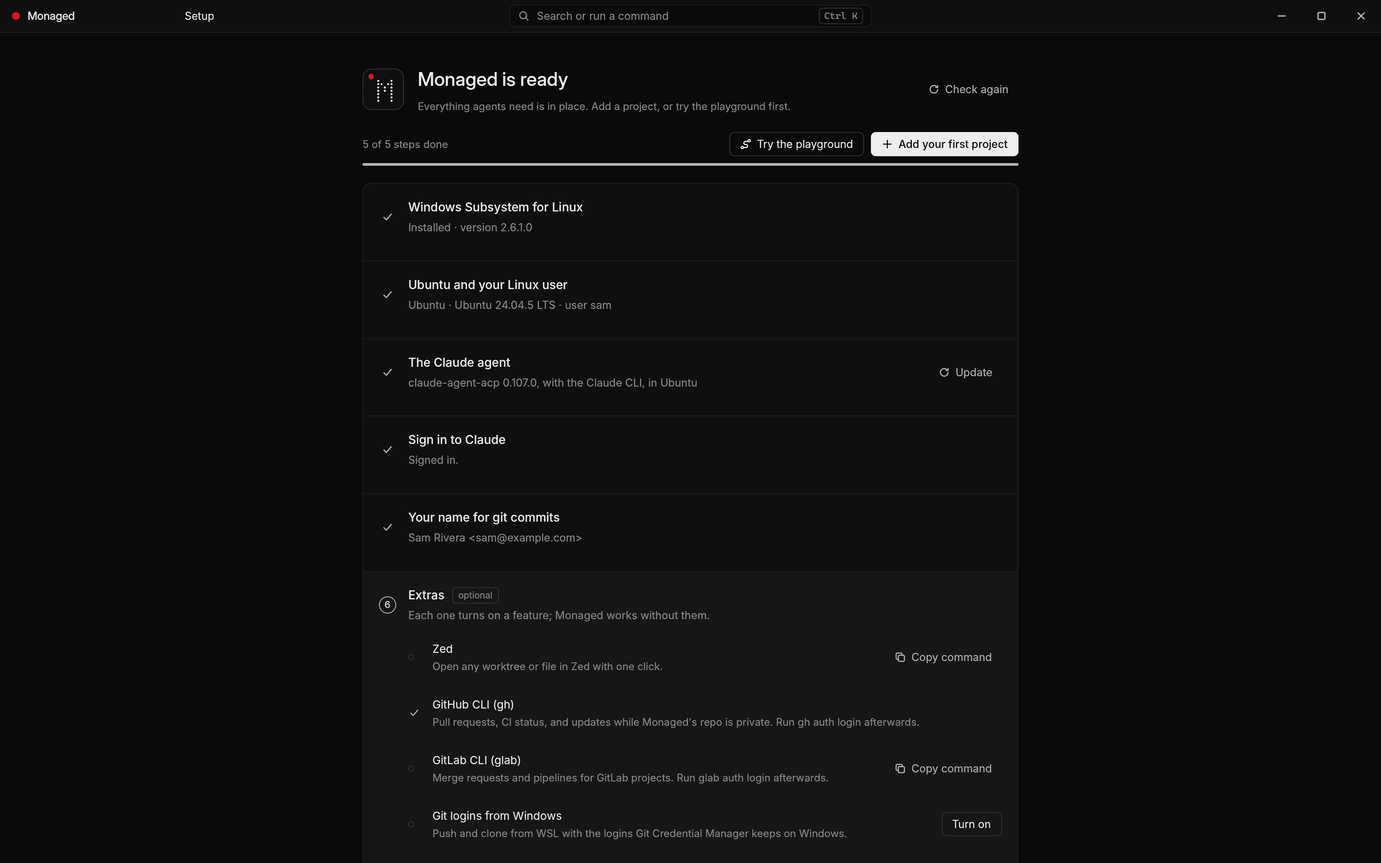
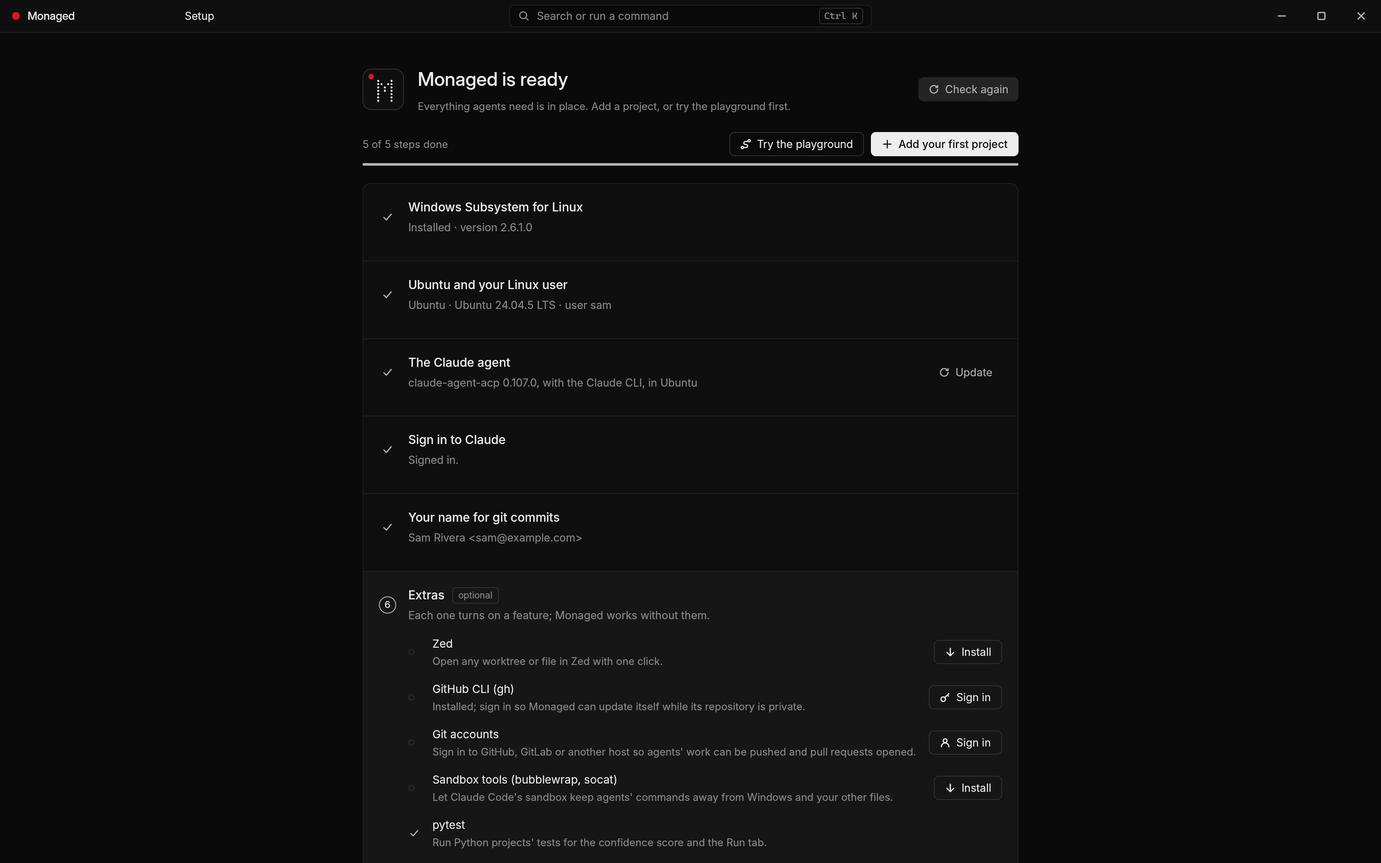
Docs and site for 0.4.0; the guide's extras keep their layout in every state
- Getting started, troubleshooting, the user guide (Git accounts, the fuller
  Git tab) and the code map describe the in-app setup, the sign-in code box,
  the Install buttons and the new modules.
- CHANGELOG and roadmap sections for 0.4.0; version mentions in the press
  kit and on the site.
- New screenshots of the setup guide: Ubuntu downloading with its size and
  speed, and the ready state with the extras' buttons.
- Extras rows are flat flex rows again: with a block wrapper their titles
  collapsed to one letter per line while the Ubuntu form was open.

Claude-Session: https://claude.ai/code/session_017q4atCXFUxg4EBPXPaHpjh

Changed region(s): [[0.3125, 0.744, 0.7188, 0.992], [0.6562, 0.062, 0.75, 0.124], [0.6562, 0.744, 0.7188, 0.775]]

diff --git a/site/index.html b/site/index.html
@@ -171,7 +171,7 @@ footer a { color: var(--text-2); }
       <a class="btn primary" href="https://github.com/Marten-Mrfc/monaged/releases/latest"><svg xmlns="http://www.w3.org/2000/svg" aria-hidden="true" viewBox="0 0 16 16" fill="none" stroke="currentColor" stroke-width="1.4" stroke-linecap="round" stroke-linejoin="round"><path d="M8 3v10M3.5 8.5 8 13l4.5-4.5"/></svg>Download for Windows</a>
       <a class="btn" href="https://github.com/Marten-Mrfc/monaged"><svg xmlns="http://www.w3.org/2000/svg" aria-hidden="true" viewBox="0 0 16 16" fill="none" stroke="currentColor" stroke-width="1.4" stroke-linecap="round" stroke-linejoin="round"><path d="M9 2.5h4.5V7M13.5 2.5 7.5 8.5M12 9.5v3a1 1 0 0 1-1 1H3.5a1 1 0 0 1-1-1V5a1 1 0 0 1 1-1h3"/></svg>View on GitHub</a>
     </div>
-    <p class="fine">Free · Version 0.3.0 · Windows 10 and 11 (x64) · Uses your own Claude account</p>
+    <p class="fine">Free · Version 0.4.0 · Windows 10 and 11 (x64) · Uses your own Claude account</p>
     <picture>
       <source srcset="img/light.png" media="(prefers-color-scheme: light)">
       <img class="shot" src="img/pipeline-build.png" alt="Monaged's window: a project tree with seven agents, a builder's conversation with its tool calls, and the pipeline at the build stage." width="1600" height="1000">
@@ -329,7 +329,7 @@ footer a { color: var(--text-2); }
     <h2>Built to be read at a glance.</h2>
     <p class="sub">Monochrome, with one red that only ever means "needs you". Hairlines instead of boxes, real data in mono, and nothing that moves without a reason.</p>
     <div class="gallery">
-      <figure><img src="img/setup.png" alt="The setup guide on a PC without WSL, with an Install WSL button." width="1600" height="1000" loading="lazy"><figcaption>The setup guide checks first, then installs what's missing, asking each time.</figcaption></figure>
+      <figure><img src="img/setup.png" alt="The setup guide installing Ubuntu: the download with its size and speed, then installing it in WSL, the first start and creating your Linux user." width="1600" height="1000" loading="lazy"><figcaption>The setup guide installs what's missing right in the window, with real progress.</figcaption></figure>
       <figure><img src="img/pipeline-decide.png" alt="The pipeline waiting at the decide gate, with the research report and both verifiers' verdicts." width="1600" height="1000" loading="lazy"><figcaption>Two verifiers check the research before anything gets built.</figcaption></figure>
       <figure><img src="img/palette.png" alt="The command palette listing actions for the current subproject." width="1600" height="1000" loading="lazy"><figcaption>Ctrl K jumps anywhere and runs anything.</figcaption></figure>
       <figure><img src="img/pipeline-done.png" alt="A finished pipeline merged into develop, all eight stages checked." width="1600" height="1000" loading="lazy"><figcaption>Finished work merges into develop when the rules and the score allow it.</figcaption></figure>

diff --git a/src/onboarding.rs b/src/onboarding.rs
@@ -1792,11 +1792,12 @@ impl Monaged {
             StepId::Extras => {
                 let wsl_ready = self.step_done(StepId::Distro);
                 let running = self.setup.job.clone();
-                // One extra: a row, with what it's doing (progress, a sign-in) as a
-                // sibling under it. Keep this shape: a row nested in a column, or a
-                // flex row with vertical padding, made the layout overestimate the
-                // list's height when text wrapped, which pushed the guide's own
-                // buttons out of reach.
+                // One extra: a flat flex row, with what it's doing (progress, a
+                // sign-in) as a sibling under it. Keep this shape. A row nested in a
+                // column, a row with vertical padding, or a text column with
+                // `min_w(0)` made the layout misjudge the list's height (pushing the
+                // guide's own buttons out of reach), and a block `div()` around the
+                // row collapsed its text to one letter per line.
                 let row = |ok: bool, title: &'static str, detail: &'static str, fix: Option<AnyElement>, below: Option<AnyElement>| -> Vec<AnyElement> {
                     let line = div()
                         .flex()
@@ -1812,14 +1813,13 @@ impl Monaged {
                         .child(
                             div()
                                 .flex_1()
-                                .min_w(px(0.))
                                 .flex()
                                 .flex_col()
                                 .child(div().text_size(px(13.)).text_color(rgb(theme::text())).child(title))
                                 .child(div().text_size(px(12.)).text_color(rgb(theme::text_3())).child(detail)),
                         )
-                        .children(fix);
-                    let line = div().child(line).into_any_element();
+                        .children(fix)
+                        .into_any_element();
                     std::iter::once(line).chain(below.map(|b| div().pl(px(28.)).pb(px(6.)).flex().flex_col().child(b).into_any_element())).collect()
                 };
                 // The Install button, or this extra's progress while it installs.

diff --git a/docs/troubleshooting.md b/docs/troubleshooting.md
@@ -12,11 +12,13 @@ Monaged writes a log to `%APPDATA%\Monaged\monaged.log` (the previous run's is `
 
 ## WSL
 
-**Install WSL does nothing, or says permission was declined.** It needs one administrator prompt (UAC). If your account isn't an administrator, ask someone who is to run `wsl --install --no-distribution` in an administrator terminal, then click **Check again**.
+**Install WSL does nothing, or says permission was declined.** It needs one administrator prompt (UAC). If your account isn't an administrator, ask someone who is to run `wsl --install --no-distribution` in an administrator terminal, then click **Check again**. What WSL's installer said is in `%LOCALAPPDATA%\Monaged\wsl-install.log`.
 
 **Ubuntu installed but "didn't start".** Right after installing WSL, Windows usually needs a restart. If it still fails after one, virtualization is probably off: turn on *Intel VT-x / AMD-V* (often called *SVM* or *Virtualization Technology*) in your PC's BIOS or UEFI settings. In Windows, *Virtual Machine Platform* must be on (Turn Windows features on or off).
 
-**I closed the Ubuntu window before creating my user.** Click **Open Ubuntu** in the setup guide; it asks again. If you'd rather keep using root, choose **Keep using root** (not recommended).
+**Installing Ubuntu stopped halfway.** The guide shows the step it stopped at and why; click **Install Ubuntu** again. A finished download is kept in `%LOCALAPPDATA%\Monaged\downloads` and reused (it's checked again first), and deleted once Ubuntu is installed. The download comes from the address in WSL's own list of distributions (`raw.githubusercontent.com` and `releases.ubuntu.com`); a proxy that blocks those stops it.
+
+**My distro only has root.** The setup guide offers the same username and password form; **Create my user** makes the user, adds it to the usual groups (sudo among them) and makes it the default. If you'd rather keep using root, choose **Keep using root** (not recommended).
 
 **I use another distro.** The setup guide lists the distros you have; click one to use it. Monaged remembers it. You can also start Monaged with `--distro <name>`.
 
@@ -25,24 +27,30 @@ Monaged writes a log to `%APPDATA%\Monaged\monaged.log` (the previous run's is `
 **"Can't reach Claude inside WSL."** The bar at the top has the reason; **Copy details** puts the whole error on the clipboard. Common causes:
 
 - *The agent isn't installed*: open the setup guide and click **Install the Claude agent**.
-- *curl is missing in WSL*: open your distro and run `sudo apt update && sudo apt install -y curl`.
+- *curl is missing in WSL*: the setup guide's agent step has **Install curl and tar**.
 - *GitHub can't be reached from WSL* (a proxy or firewall): download `claude-agent-acp-linux-x64.tar.gz` from the [claude-agent-acp releases](https://github.com/agentclientprotocol/claude-agent-acp/releases) yourself and unpack it into `~/.local/share/claude-agent-acp/<version>`, then point `~/.local/share/claude-agent-acp/current` at that folder.
 
-**"Claude isn't signed in."** Click **Sign in** in the bar (or in the setup guide), finish in the browser, then **Reconnect**. In a terminal it's: `wsl -- ~/.local/share/claude-agent-acp/current/claude auth login`.
+**"Claude isn't signed in."** Click **Sign in** in the bar (or the health check): the setup guide opens at its sign-in step and Claude's page opens in your browser. Sign in there, copy the code the page shows, paste it into the guide and press Enter.
+
+- *The page didn't open*: click **Open the page** (or **Copy link** and paste it into a browser).
+- *"That's only part of the code"*: the code has two halves joined by `#`; use the page's copy button so you get all of it.
+- *It says the sign-in stopped*: the code expired or was used once already; click **Sign in** again for a new one.
 
 **Agents can't commit.** Git in WSL needs a name and email: Settings → Git, or the setup guide's git step.
 
-**Pushing asks for a password, or fails.** Turn on "Use my Windows Git credentials in WSL" (Settings → Git, or the setup guide's extras); it makes git in WSL use the logins Git Credential Manager keeps on Windows.
+**Pushing asks for a password, or fails.** Sign in to the host in Settings → Git accounts (the setup guide's extras link there too). Monaged then answers git's credential questions in WSL for that host. Already using Git Credential Manager on Windows? Settings → Git accounts can make it the helper for other hosts instead.
 
 ## Reviews and tests
 
 **The confidence score says checks failed, but my tests pass.** Reviews run the test command from Project settings → Run when you set one, else the `test` in a `monaged.json` in the project root (`{"test": "..."}`), else one Monaged detects (cargo, npm, go, pytest or unittest, make). Set your real test command in one of the first two places; the Run tab uses the same one.
 
-**Open in Zed does nothing.** Install Zed and make sure `zed` works in a terminal (`winget install -e --id ZedIndustries.Zed`).
+**Open in Zed does nothing.** Install Zed (the setup guide's extras have an **Install** button) and make sure `zed` works in a terminal.
+
+**An Install button says winget isn't on this PC.** Windows programs install through winget, which comes with "App Installer" from the Microsoft Store. Install that, or use the **Website** button next to **Install** to download the program yourself.
 
 ## Updates
 
-**Check for updates says "no public release found".** While Monaged's repository is private, updates come through the GitHub CLI: install it (`winget install -e --id GitHub.cli`) and run `gh auth login`.
+**Check for updates says "no public release found".** While Monaged's repository is private, updates come through the GitHub CLI: in the setup guide's extras, **Install** it and **Sign in** (GitHub shows a one-time code to enter on its page).
 
 **"This is a development build."** Only an installed copy updates itself. Install it from Settings → Updates → Install this build, or run the setup file.
 

diff --git a/README.md b/README.md
@@ -43,11 +43,12 @@ Monaged gives each **project** its **subprojects**, each subproject its **agents
 - **Review with reasons.** Diffs, Haiku summaries and a 1–5 confidence score from your project's tests plus a skeptical review. Failing tests cap the score; every score lists why. Comment on diff lines and send them back.
 - **Agents that coordinate.** A shared board for contracts and decisions, file claims that warn about overlaps, and a librarian that answers questions before anyone gets interrupted.
 - **Merges on your rules.** A branch chain (develop → acceptance → main) with a rule per target, a merge queue with CI status, and GitHub pull or GitLab merge requests.
+- **Git accounts built in.** Sign in to GitHub, GitLab or any host from Settings; tokens stay in Windows Credential Manager and Monaged answers git's credential questions in WSL. No Git Credential Manager, `gh` or `glab` needed. SSH keys, per-project accounts, and a Git tab that commits selected files, amends and undoes.
 - **Budget-aware.** Your weekly usage, Monaged's share of it and a cap you choose. Cost estimates on plans; automatic work pauses before your limit.
 - **Undo anything.** Every turn is checkpointed: roll back to before any message, undo the rollback, or replay an agent's work turn by turn.
 - **Secrets stay secret.** Environment variables encrypted with DPAPI; agents see names, never values; values are masked everywhere and block pushes.
 - **Native and keyboard-first.** Built on GPUI (Zed's UI framework). Ctrl K for everything, shortcuts you can change, four themes, and Zed one click away.
-- **Set up in minutes.** A setup guide installs WSL, Ubuntu and the Claude agent and signs you in, asking before each step.
+- **Set up in minutes.** A setup guide installs WSL, Ubuntu and the Claude agent and signs you in, asking before each step, all inside Monaged with real progress: no console windows, no commands to copy.
 
 <table>
   <tr>
@@ -59,11 +60,11 @@ Monaged gives each **project** its **subprojects**, each subproject its **agents
     <td>Plans show their size, risks and cost, and wait for you when it matters.</td>
   </tr>
   <tr>
-    <td width="50%"><img src="site/img/setup.png" alt="The setup guide on a PC without WSL."></td>
+    <td width="50%"><img src="site/img/setup.png" alt="The setup guide installing Ubuntu, with the download's size and speed."></td>
     <td width="50%"><img src="site/img/light.png" alt="Monaged in the light Paper theme."></td>
   </tr>
   <tr>
-    <td>The setup guide checks first, then installs what's missing.</td>
+    <td>The setup guide installs what's missing right in the window, with real progress.</td>
     <td>Four themes, one rule: red only means "needs you".</td>
   </tr>
 </table>
@@ -72,7 +73,7 @@ Monaged gives each **project** its **subprojects**, each subproject its **agents
 
 1. Download **Monaged-Setup-&lt;version&gt;.exe** from the [latest release](https://github.com/Marten-Mrfc/monaged/releases/latest) and run it. If SmartScreen warns you, click **More info → Run anyway** (the installer isn't code-signed yet; checksums are in `SHA256SUMS.txt`).
 2. It installs just for you, without administrator rights.
-3. Monaged opens its **setup guide**, which installs WSL and Ubuntu if you need them, then the Claude agent, and signs you in. It asks before each step.
+3. Monaged opens its **setup guide**, which installs WSL and Ubuntu if you need them (you pick your Linux username and password right in the guide), then the Claude agent, and signs you in: Claude's page opens in your browser and you paste the code it shows. It asks before each step.
 4. Click **Try the playground** for a hands-on tour, or **Add your first project**.
 
 Already installed? Monaged updates itself (Settings → Updates).
@@ -82,7 +83,7 @@ Already installed? Monaged updates itself (Settings → Updates).
 - Windows 10 (version 2004 or later) or Windows 11, x64, with virtualization on.
 - WSL 2 with a Linux distribution (the setup guide installs Ubuntu).
 - A Claude Pro or Max subscription, or an Anthropic Console account. Agents use your own account.
-- Optional: [Zed](https://zed.dev), the [GitHub CLI](https://cli.github.com) and the [GitLab CLI](https://gitlab.com/gitlab-org/cli), an Anthropic API key for the Haiku summaries.
+- Optional: [Zed](https://zed.dev), the [GitHub CLI](https://cli.github.com) (for updates while this repository is private), an Anthropic API key for the Haiku summaries. The setup guide installs them with a click.
 
 ## How it works
 

diff --git a/CHANGELOG.md b/CHANGELOG.md
@@ -2,6 +2,31 @@
 
 All notable changes to Monaged. The format follows [Keep a Changelog](https://keepachangelog.com/en/1.1.0/), and versions follow [Semantic Versioning](https://semver.org/).
 
+## [0.4.0] - 2026-11-15
+
+Setting up happens entirely inside Monaged now, git signs in to GitHub and GitLab by itself, and uninstalling can take everything with it.
+
+### Added
+
+- **Git accounts** (Settings → Git accounts): sign in to GitHub, GitLab (Enterprise and self-hosted too) or any other host, with nothing to register and no server in between. In the browser (the host's token page opens with the right permissions ticked; Monaged picks the token up from the clipboard, checks it and empties the clipboard), by pasting a token, or by importing what the GitHub CLI, the GitLab CLI or Git Credential Manager already has. Tokens live in Windows Credential Manager, expiring ones are flagged, and Monaged is git's credential helper in WSL (`monaged.exe --git-credential`), so Git Credential Manager is optional. Several accounts per host, per-project accounts, SSH keys (create, add to your account, test, trust), and "commit as this account".
+- **Pull and merge requests and CI without `gh` or `glab`**: through the hosts' REST APIs with your account.
+- **A fuller Git tab**: commit only the files you tick, amend, take back a commit that isn't pushed, pull with a merge when a branch moved on both sides, and an Origin row (account, connection test, HTTPS ⇄ SSH).
+- **Install buttons** in the setup guide's extras: Zed and the GitHub CLI with winget (hidden; Windows still asks for permission when an installer needs it, and the new PATH is picked up without restarting Monaged), Claude Code's sandbox tools, pytest and curl with apt as root in WSL (no Linux password), each with its progress. The GitHub CLI signs in with GitHub's one-time code shown in the guide. When winget is missing, a **Website** button offers the download instead.
+UNINSTALLER_PLACEHOLDER
+
+### Changed
+
+- **No console windows in the setup guide.** WSL installs in the background after one administrator prompt, with what its installer says shown live (and kept in `%LOCALAPPDATA%\Monaged\wsl-install.log`).
+- **Ubuntu installs inside the guide with real progress** instead of in a console that says "This might take a while…": the download (megabytes, speed, checked against WSL's checksum), unpacking, the first start (cloud-init's stages) and your user. You type your Linux username (suggested from your Windows name) and password in the guide; Monaged creates the user in the usual groups and makes it the default. A distro that only has root gets the same form.
+- **Signing in to Claude** happens in the guide: Claude's sign-in page opens in your browser, and you paste the code it shows into a box (Enter works). Subscription or Anthropic Console account. The "not signed in" bar and the health check open this instead of a terminal.
+- The guide's extras link to Git accounts instead of turning on Git Credential Manager, and no longer list commands to copy.
+
+### Fixed
+
+- Progress bars never filled: downloads, clones and installs showed an empty track. They fill now, and a segment slides along while progress isn't known.
+- The name and email fields in the setup guide's git step and in the Git tab collapsed to nothing.
+- With the extras open, the setup guide's own buttons (Close, Try the playground, Add your first project) could end up out of reach below the list.
+
 ## [0.3.0] - 2026-11-14
 
 The first release meant for other people's PCs: Monaged now sets up everything it needs, asking first.
@@ -65,6 +90,7 @@ The first release meant for other people's PCs: Monaged now sets up everything i
 - Usage awareness: weekly usage, Monaged's share, budgets and models per role.
 - A redesigned window with themes, a command palette and a UX pass.
 
+[0.4.0]: https://github.com/Marten-Mrfc/monaged/releases/tag/v0.4.0
 [0.3.0]: https://github.com/Marten-Mrfc/monaged/releases/tag/v0.3.0
 [0.2.0]: https://github.com/Marten-Mrfc/monaged/commit/503e441
 [0.1.0]: https://github.com/Marten-Mrfc/monaged/commit/6fee8a1

diff --git a/docs/getting-started.md b/docs/getting-started.md
@@ -13,18 +13,18 @@ Prefer not to install? The release also has a zip with the same `monaged.exe`; i
 
 ## 2. Let the setup guide get your PC ready
 
-On first start Monaged opens its setup guide. It checks each thing first and only installs something after you click.
+On first start Monaged opens its setup guide. It checks each thing first and only installs something after you click. Everything happens in the guide itself, with its progress: no console windows and no commands to copy.
 
-![The setup guide on a PC without WSL](../site/img/setup.png)
+![The setup guide installing Ubuntu, with the download's size and speed](../site/img/setup.png)
 
 | Step | What happens |
 |---|---|
-| **Windows Subsystem for Linux** | **Install WSL** asks Windows for administrator rights once and installs WSL in its own window. Windows usually wants a restart afterwards: **Restart Windows now** does it, and Monaged opens again after you sign in to carry on. |
-| **Ubuntu and your Linux user** | **Install Ubuntu** opens a window that downloads Ubuntu and then asks you for a Linux username and password. That's your account inside WSL, separate from Windows; remember the password, because installing Linux packages asks for it. Close the window when you're done; the guide notices by itself. Already have a distro? Pick it instead. |
-| **The Claude agent** | **Install the Claude agent** downloads [claude-agent-acp](https://github.com/agentclientprotocol/claude-agent-acp), which includes the Claude CLI, into `~/.local/share/claude-agent-acp` (about 220 MB). No sudo needed. **Update** fetches the newest one later. |
-| **Sign in to Claude** | **Sign in** opens a terminal running `claude auth login`. Choose your Claude Pro or Max subscription or an Anthropic Console account, and finish in your browser. |
+| **Windows Subsystem for Linux** | **Install WSL** asks Windows for administrator rights once, then installs WSL in the background while the guide shows what it's doing. Windows usually wants a restart afterwards: **Restart Windows now** does it, and Monaged opens again after you sign in to carry on. |
+| **Ubuntu and your Linux user** | Type a Linux username (suggested from your Windows name) and a password, and click **Install Ubuntu**. Monaged downloads Ubuntu from WSL's own catalog (about 420 MB, with megabytes and speed, checked against its checksum), installs it, starts it for the first time and creates your user. That's your account inside WSL, separate from Windows; remember the password, because `sudo` asks for it. Already have a distro? Pick it instead; if it only has root, the same form creates your user. |
+| **The Claude agent** | **Install the Claude agent** downloads [claude-agent-acp](https://github.com/agentclientprotocol/claude-agent-acp), which includes the Claude CLI, into `~/.local/share/claude-agent-acp` (about 220 MB). No sudo needed. **Update** fetches the newest one later. If your distro lacks curl, **Install curl and tar** adds them first. |
+| **Sign in to Claude** | **Sign in with Claude** (a Pro, Max, Team or Enterprise subscription) or **Use an Anthropic Console account**. Claude's sign-in page opens in your browser; when it shows a code, copy it, paste it into the box in the guide and press Enter. Monaged never sees your password. |
 | **Your name for git commits** | Agents commit their work, so git in WSL needs a name and email. The guide fills in the ones git uses on Windows, if any. |
-| **Extras** | Optional things that switch features on, each with the command to install it: Zed, the GitHub and GitLab CLIs, Git Credential Manager logins, Claude Code's sandbox tools, pytest, and an Anthropic API key for cheaper summaries. |
+| **Extras** | Optional things that switch features on, each with an **Install** or **Sign in** button: Zed and the GitHub CLI (installed with winget), Git accounts for pushing and pull requests, Claude Code's sandbox tools and pytest (installed in WSL as root, so no password), and an Anthropic API key for cheaper summaries. |
 
 When the required steps have a check mark, the guide says **Monaged is ready**.
 

diff --git a/docs/user-guide.md b/docs/user-guide.md
@@ -66,9 +66,20 @@ Every agent has Monaged's tools: `board_read`, `board_post` (contracts, decision
 ## Merging
 
 - **The project view** shows your branch chain (develop → acceptance → main) with a rule per target you can click to change: develop merges automatically unless the score is 1, acceptance asks you, the top branch asks twice. **Set up develop and acceptance** creates them.
-- **The Merge tab**: merge, push, open a GitHub pull request or GitLab merge request (through `gh`/`glab`), resolve conflicts with an agent, and clean up worktrees.
+- **The Merge tab**: merge, push, open a GitHub pull request or GitLab merge request (through the REST API with your Git account, or `gh`/`glab` when you have them), resolve conflicts with an agent, and clean up worktrees.
 - **The merge queue** (project overview): ready first, with confidence, conflicts, the request and its CI status; **Merge N ready** merges them one at a time.
-- **The Git tab**: a worktree's changes, commit with a suggested message, stash, fetch, pull and push, finish a conflicted merge, and the history graph.
+- **The Git tab**: a worktree's changes; commit everything or only the files you tick, with a suggested message, or amend the last commit; take back a commit that isn't pushed yet; stash, fetch, pull (a merge when both sides moved, never a rebase) and push; finish a conflicted merge; and the history graph. Its **Origin** row says which account the project signs in as, switches account, tests the connection, and flips origin between HTTPS and SSH.
+
+## Git accounts
+
+Settings → **Git accounts** signs git in to GitHub, GitLab (Enterprise and self-hosted too) or any other host, with nothing to register and no server in between:
+
+- **In the browser**: Monaged opens the host's own token page with the right permissions ticked. Click Generate and Copy; Monaged picks the token up from the clipboard (only something with the host's token shape, copied after you started), checks it with the host and empties the clipboard.
+- **By pasting a token**, with a username and app password for other hosts, or by **importing** a login the GitHub CLI, the GitLab CLI or Git Credential Manager already has.
+
+Tokens are checked with the host (who you are, your email, the token's scopes and expiry; tokens that expire within two weeks are flagged here and in the health check), kept in Windows Credential Manager, and never written to the database, a file in WSL or a command line. Monaged becomes git's credential helper in WSL for each host with an account (`monaged.exe --git-credential`), so Git Credential Manager isn't needed; if you do use it, one switch makes it the helper for other hosts. Several accounts per host work: one is the default, and a project can sign in as another from its Git tab. **Commit as this account** makes its name and email git's identity in WSL. Tokens are masked like secrets and block merges and pushes that would contain one.
+
+**SSH keys** in WSL are listed here too: create one, add it to your GitHub or GitLab account in one click, test it per host, and trust a host's key.
 
 ## Running and testing
 

diff --git a/ROADMAP.md b/ROADMAP.md
@@ -369,6 +369,22 @@ Decided with the user: build everything ready for a public release but don't dep
 - [x] Clone checks, push errors and the health check point to Settings → Git accounts.
 - [ ] Not exercised live yet (written and type-checked off Windows): the clipboard pick-up against the real token pages, the helper through WSL interop, imports from gh/glab/GCM.
 
+### Release 0.4.0: setup inside Monaged, git accounts, a full uninstaller (done 2026-11-15)
+Asked for after testing 0.3.0 on a real PC: Ubuntu's install ran in a console that only said "This might take a while…", and sign-in, extras and fixes all meant terminals and copied commands.
+
+- [x] **Everything in the guide:** WSL installs hidden after one administrator prompt with its installer's output shown live; Ubuntu downloads from WSL's catalog with megabytes, speed and a checksum, installs with `wsl --install --from-file` (falling back to `--import`), starts with cloud-init's stages shown, and gets the user from a username and password typed in the guide. The distro Monaged installed is remembered for the uninstaller.
+- [x] **Claude sign-in without a terminal:** `claude auth login` runs hidden; the guide shows its link (and opens it) and a box for the code Claude's page shows. It reads that code from plain input, so no terminal is needed.
+- [x] **Install buttons** for the extras (winget hidden, apt as root in WSL, both with progress), GitHub CLI sign-in with its one-time code, and a website fallback when winget is missing.
+- [x] **Git accounts** merged in (see the section above), and the guide links to them.
+- [x] **Uninstaller** that can remove everything Monaged added (see the changelog), but never WSL itself.
+- [x] **Fixed on the way:** progress bars never filled (percentage widths that resolved to nothing in GPUI's layout), fields that collapsed, and the guide's buttons ending up out of reach.
+
+**Tested:** unit tests under Wine; the whole guide in the real UI against stand-ins for WSL, the Claude CLI, gh and an elevated PowerShell, with a real (throttled, local) Ubuntu image download and checksum.
+
+**Not tested on a real PC yet:** the hidden elevated WSL install and its log, `wsl --install --from-file`, the first start with cloud-init and the user creation in a real Ubuntu, the Claude sign-in against the real page, winget installs, and the uninstaller.
+
+**Known limits:** the setup page (like 0.3.0's) can scroll a little past its end into empty space in some states; GPUI's scroll extent comes out larger than the content there. Nothing is cut off.
+
 ### Next ideas
 - Fork an agent: a new worktree from its branch, with a summary of the conversation as the brief.
 - A morning summary: what finished overnight, what waits for you, what it cost.

diff --git a/marketing/launch.md b/marketing/launch.md
@@ -48,7 +48,7 @@ Monaged is a native Windows app for running Claude Code agents on your projects.
 
 **X / Bluesky / Mastodon**
 
-> Monaged 0.3.0 is out: one window for every Claude Code agent.
+> Monaged 0.4.0 is out: one window for every Claude Code agent.
 > Each agent gets its own git worktree, a pipeline takes a feature from a sentence to a merged branch, and every change comes with a score and its reasons.
 > Windows + WSL, free, uses your own Claude account. [link]
 
@@ -58,7 +58,7 @@ Monaged is a native Windows app for running Claude Code agents on your projects.
 >
 > Monaged gives every agent its own git worktree, runs a research → verify → plan → build → integrate pipeline that waits for approval when a plan is risky, and scores every change from 1 to 5 based on your tests and a skeptical review, with the reasons spelled out.
 >
-> It's a native Windows app, free, and it uses your own Claude account. Version 0.3.0 adds a setup guide that installs WSL, Ubuntu and the Claude agent for you. [link]
+> It's a native Windows app, free, and it uses your own Claude account. Version 0.4.0 sets up WSL, Ubuntu and the Claude agent right inside the app with real progress, signs git in to GitHub and GitLab, and can remove everything again when you uninstall. [link]
 
 **Reddit (r/ClaudeAI, r/ClaudeCode)**
 

diff --git a/marketing/README.md b/marketing/README.md
@@ -23,4 +23,4 @@ Everything for writing or talking about Monaged.
 - **Built with:** Rust and GPUI (Zed's UI framework); Claude Code through claude-agent-acp and the Agent Client Protocol
 - **Price:** free; agents use your own Claude subscription or API account
 - **License:** MIT with the Commons Clause (source-available)
-- **Current version:** 0.3.0
+- **Current version:** 0.4.0
